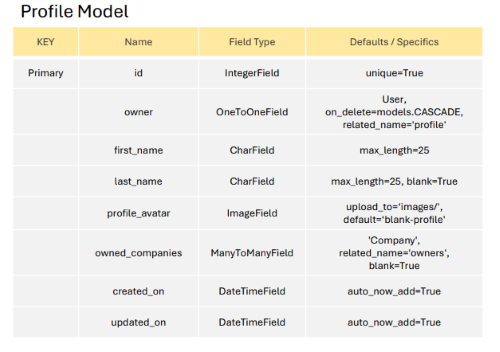
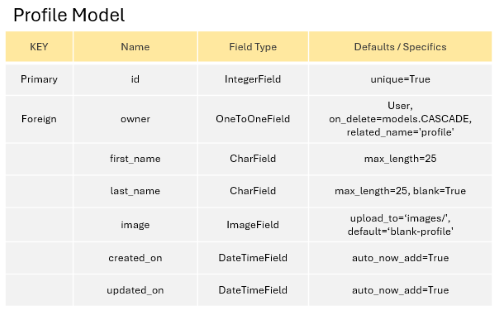
Add Planning section, agile methodology and data models to README

diff --git a/README.md b/README.md
@@ -1,43 +1,106 @@
-# EcoPositive Bristol (Django REST API)
+# ecoPositive Bristol (Django REST API)
 
-[EcoPositive Bristol](https://tastesensation-pp4-54d01fbc1628.herokuapp.com/) is a one stop directory championing Bristol’s eco-conscious and socially responsible businesses.
+This is the backend service used by the [ecoPositive Bristol](https://ecopositive-react-pp5-0012331e7023.herokuapp.com/) application.
 
-Users are invited to sign up to endorse the companies that they support and comment on listed businesses so that other visitors to the site can see which businesses are popular.
+The goal of this API is to provide the backend data framework which communicates with the front end REACT User Interface enabling users to create, read, update and delete data associated with the application.
+
+[ecoPositive Bristol](https://tastesensation-pp4-54d01fbc1628.herokuapp.com/) is a one stop directory championing Bristol’s eco-conscious and socially responsible businesses.
+
+Business owners are invited to list their company or business and highlight their eco-positive credentials from a list of 50 pre-determined options listed under group headings.
+
+All users are able to view the directory and see the company details so they can find an ecoPositive business whether they sign up or not. User are invited to sign up to endorse the companies that they support and comment on listed businesses so that other visitors to the site can see which businesses are popular.
 
 ![Placeholder mock up on multiple devices](placeholder image)
 
-### Design Process
+## Planning
 
-***Wireframes***
+### Agile Methodology
 
-- Initial Wireframe designs were used to plan out the layout for the Company List and Company Detail pages
+***Trello Board***
 
-![Directory Listing Wireframe Design](docs/readme-images/home-page-laptop.png)
+![Screenshot of initial ecoBristol Trello Board](docs/readme-images/trello-board.png)
 
-![Company Detail Wireframe Design](docs/readme-images/company-details-laptop.png)
+- View the live [Trello ecoPositive Bristol Board](https://trello.com/b/HLP5BPb6/ecopositive-bristol)
+- I first created a Trello Board As a starting point for gathering information and mapping out the general idea for ecoBristol.
+- This includes the following:
+  - Concept list with a variety of items some of which became EPICS and User Stories later on
+  - CRUD functionality plans to ensure that this aspect of the assessment criteria is met
+  - Potential Issues to consider when planning out the project details
+  - Green Businesses - a list of companies and links to companies that would be good examples to include in the test site.
+  - Green Credentials - a brainstorm of various 'credentials' that a company might wish to apply to their business as evidence of their ecoPositive practices / products.
+  - Resources and credits - a list of tutorials, links, Stack Overflow discussions, Django documentation and many others that I used along the way to help with building the project and resolving issues.
+
+***Kanban Board***
+
+![Screenshot of GitHub Kanban Board](docs/readme-images/kanban-board.png)
+
+- View the live [ecoPositive Bristol Project Kanban Board](https://github.com/users/sophie-thomson/projects/4/)
+- Following the principles outlined in the Code Institute Agile Working units, I created a GitHub Kanban Board and using Project Issues, Milestones and Labels I mapped out the ecoPositive Bristol project into:
+   - EPICS (Overarching blocks of work broken down into USER STORY Issues)
+   - To Do (USER STORY issues with acceptance criteria and tasks)
+   - In Progress (USER STORY Issues in progress during each Milestone or 'Sprint')
+   - Completed (USER STORY Issues that have been completed)
+   - BUGS (BUG issues that define a particular issue encountered during the project and how it was resolved)
+
+![Screenshot of GitHub EPIC issue](docs/readme-images/epic-issue.png)
+
+![Screenshot of GitHub USER STORY issue](docs/readme-images/user-story-issue.png)
+
+![Screenshot of GitHub BUG issue](docs/readme-images/bug-issue.png)
+
+***MoSCoW***
+
+- Using MoSCoW Prioritisation, each USER STORY and EPIC issue in the kanban board was assigned a label:
+   - **Must Have** - High priority Epics, User Stories and Tasks that MUST be included and working in the finished project in order to have a working project and address the Assessment Criteria.
+   - **Should Have** - Epics, User Stories and Tasks that SHOULD be included in the project, but that won't cause the project to break and are not required in order to address the assessment criteria.
+   - **Could Have** - Epics, User Stories and Tasks that COULD be included in the project, but that are more of a nice to have addition and should not be prioritised over the Must Have or Should Have issues.
+   - **Won't Have** - Epics, User Stories and Tasks that WON'T be included in the project. These are issues that would have been nice to include given more time, but do not affect the usability of the project and are not required to address the assessment criteria.
+     - EPIC and USER STORY issues that this project Won't Have at the point of submission are:
+        - [#30](https://github.com/sophie-thomson/ecopositive-bristol-drf/issues/30#issue-2718771703)
+        - [#5](https://github.com/sophie-thomson/ecopositive-bristol-drf/issues/5#issue-2718751469)
+        - [#44](https://github.com/sophie-thomson/ecopositive-bristol-drf/issues/44#issue-2718781463)
+        - [#43](https://github.com/sophie-thomson/ecopositive-bristol-drf/issues/43#issue-2718780838)
+
+***Sprints and Story Points***
+
+![Screenshot of GitHub Milstone Sprints](docs/readme-images/milestones.png)
+
+- Having broken down each EPIC into USER STORY issues and identified the Must Have priorities, I then split the time I had available until the submission date down into 4-day development 'Sprints' and assigned a date range to each of the Milestones. 
+- Estimating that I could work an average of 6hrs per day on my project, I then broke each 'day' into two 'Story Point' blocks of 1-3hrs per block (8 Story Points per Sprint).
+- Given my previous experience and my level of understanding and programming skills, I made an estimate of how many Story Point blocks it would take me to complete the tasks for each User Story.
+- Arranging each User Story Issue in logical progressional order, I assigned each User Story a certain number of Story Points and a particular Milestone Sprint within which I would aim to complete that set of tasks.
+- This approach kept me on track to complete all of the Must Have labelled User Stories required to complete a working project and address the assessment criteria for PP5.
+
+## Data
+
+
 
 ***Models***
 
-- The next step was to plan and devise an ERD for each of my database models and a schema to map out and understand the relationships between them. I created an ERD and model schema for the project based on all of the elements that I would like to include if I was able (this included the Should Have and Could Have User Story issues).
+- The next step was to plan and devise an ERD for each of my database models and a schema to map out and understand the relationships between them. I created an ERD and model schema for the project based on all of the elements that I would like to include.
 
-![Placeholder model schema](placeholder for model schema)
+![Data model schema](docs/readme-images/data-model-schema.png)
 
 - I created an ERD for the following models:
   - User Model (Automatically created in Django framework)
   - Profile Model
   - Company Model
-  - Comments Model
+  - Comment Model
   - Credential Model
-  - Endorse Model
-  - Favourite Model
+  - Endorsement Model
 
 ![EcoPositive Bristol User model](docs/readme-images/user-model-erd.png)
 ![EcoPositive Bristol Profile model](docs/readme-images/profile-model-erd.png)
 ![EcoPositive Bristol Company model](docs/readme-images/company-model-erd.png)
-![EcoPositive Bristol Comments model](docs/readme-images/comments-model-erd.png)
+![EcoPositive Bristol Comment model](docs/readme-images/comments-model-erd.png)
 ![EcoPositive Bristol Credential model](docs/readme-images/credential-model-erd.png)
-![EcoPositive Bristol Endorse model](docs/readme-images/endorse-model-erd.png)
-![EcoPositive Bristol Favourite model](docs/readme-images/favourite-model-erd.png)
+![EcoPositive Bristol Endorsement model](docs/readme-images/endorse-model-erd.png)
+
+*** API End Points ***
+
+***Credentials***
+
+- 
 
 ## Testing
 
